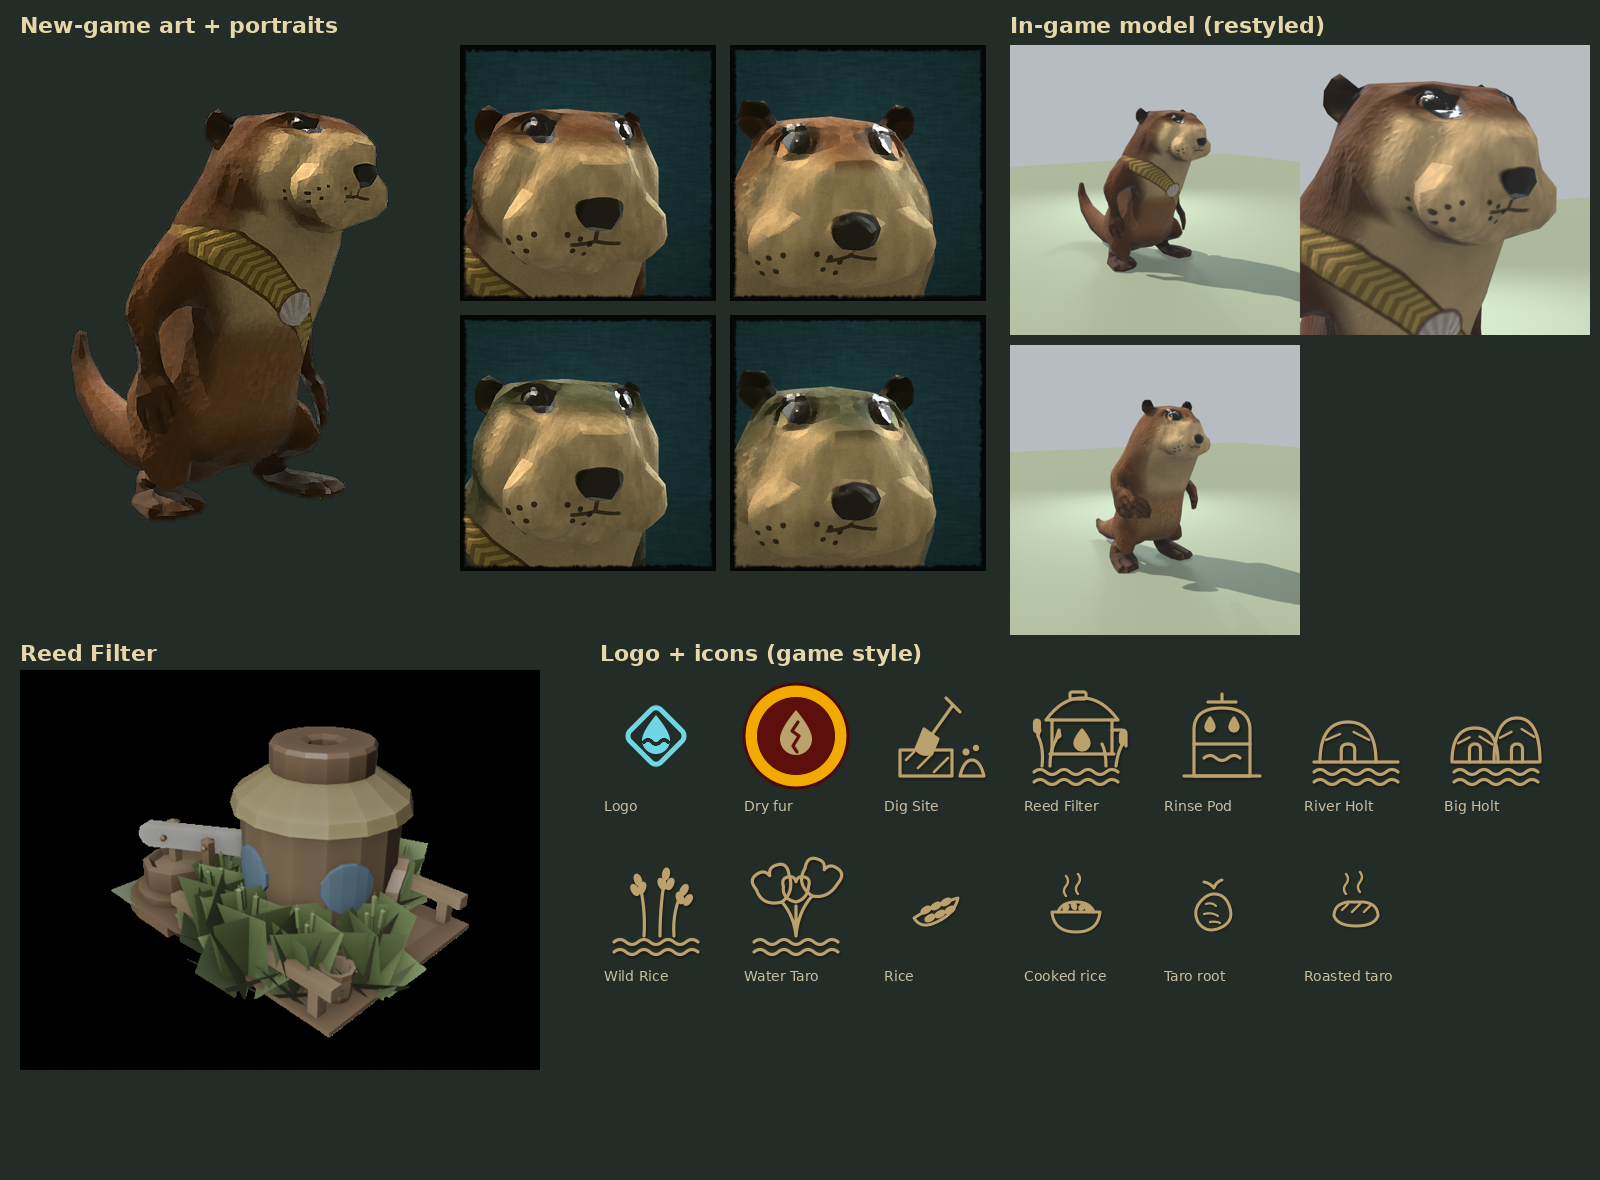
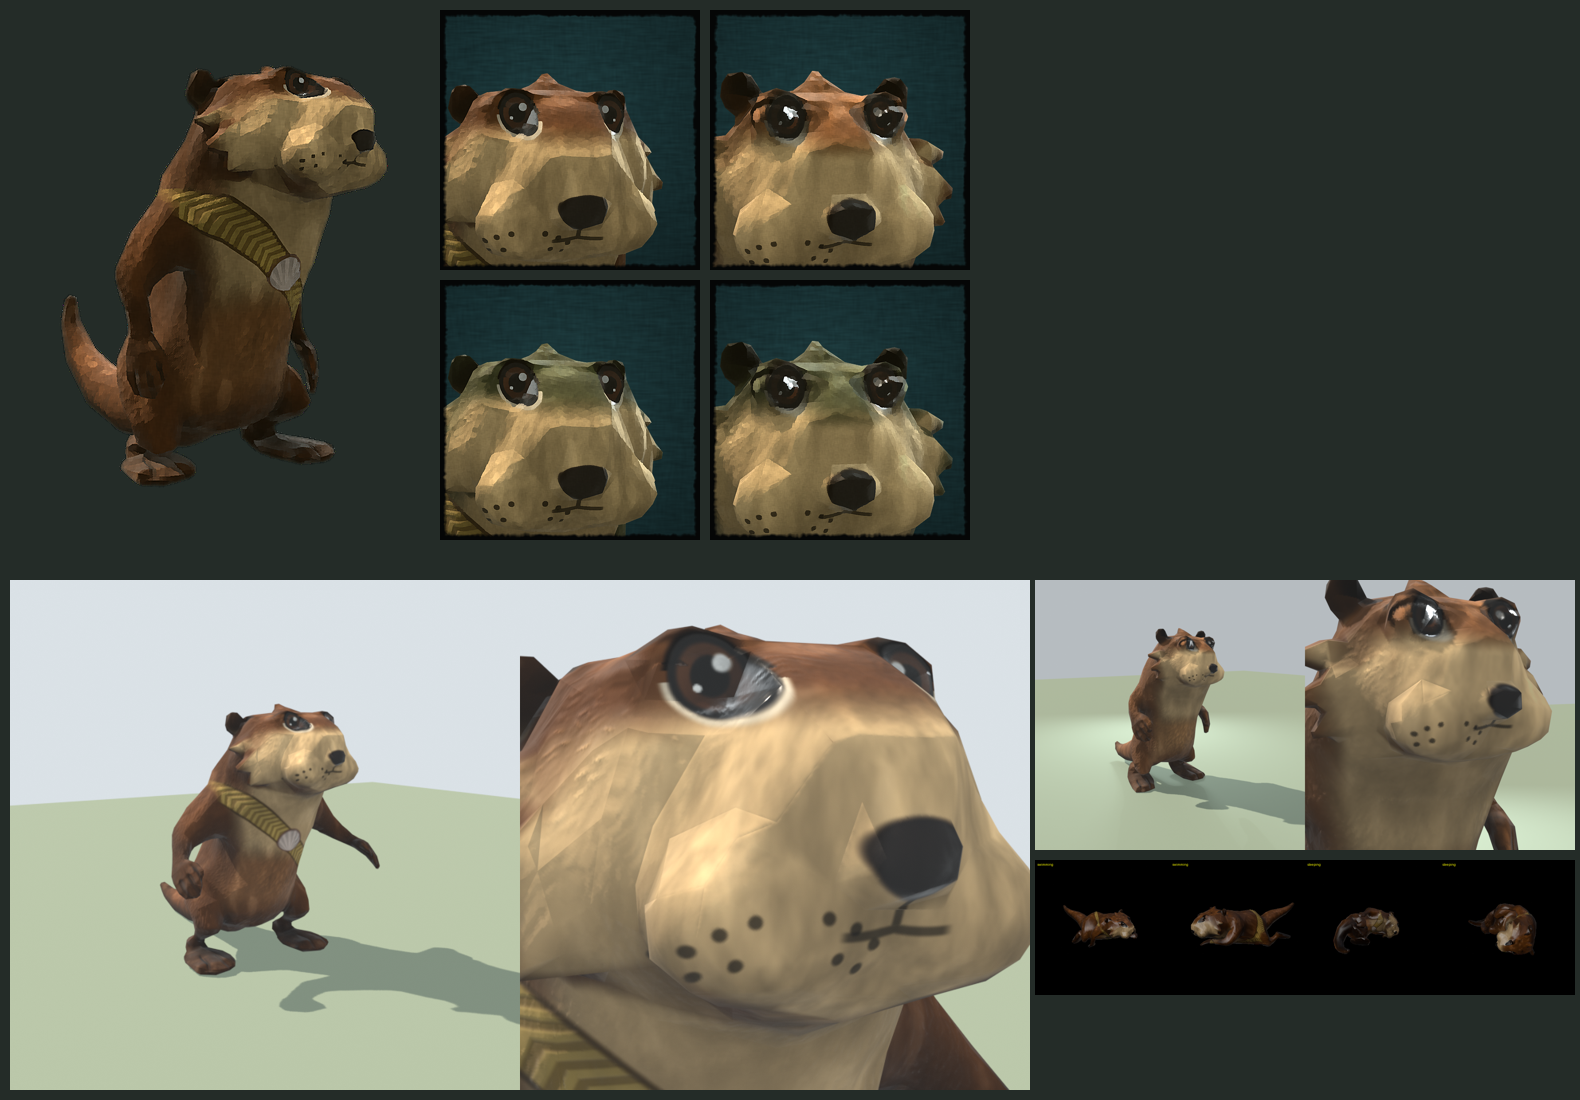
More stylized otters: bigger head, cartoon eyes, cheek ruffs, painted fur clumps
Claude-Session: https://claude.ai/code/session_01XRxHSVGEuDFb3HZy6CznfD

diff --git a/model/paint.py b/model/paint.py
@@ -246,22 +246,33 @@ def paint(P, N, M, A, L, back, belly, R, detail):
             w = smoothstep(0.003 * s, 0.0015 * s, dd) * smoothstep(0.2, 0.5, nz)
             col = col * (1 - 0.6 * w[..., None])
 
-    # eyes: dark glossy with a catch-light and a darker brow above
+    # eyes, cartoon style: dark brown iris with a lighter ring, black pupil, a cream rim along the lower edge,
+    # a heavy upper lid line, two catch-lights and a furry brow tuft
     for sgn in (-1, 1):
         c = np.array(L["eye"]) * [sgn, 1, 1]
-        front_face = smoothstep(0.0, 0.35, nz) * (np.abs(z - c[2]) < 0.05 * s)
-        d2 = np.linalg.norm((P - c)[..., :2] / [1.0, 1.15], axis=-1)
-        brow_c = c + [sgn * 0.002 * s, 0.006 * s, 0]
-        bd = np.linalg.norm((P - brow_c)[..., :2] / [1.0, 0.7], axis=-1)
-        brow = smoothstep(L["eye_r"] * 2.0, L["eye_r"] * 1.4, bd) * (P[..., 1] > c[1] + 0.3 * L["eye_r"]) * front_face
-        col = col * (1 - 0.35 * brow[..., None])
-        eye = smoothstep(L["eye_r"] * 1.05, L["eye_r"] * 0.85, d2) * front_face
-        col = lerp(col, np.array([0.05, 0.035, 0.03]), eye)
-        iris = smoothstep(L["eye_r"] * 0.75, L["eye_r"] * 0.55, d2) * front_face
-        col = lerp(col, np.array([0.16, 0.09, 0.05]), iris * 0.6)
-        glint_c = c + [sgn * 0.004 * s, 0.005 * s, 0]
-        glint = smoothstep(L["eye_r"] * 0.38, L["eye_r"] * 0.22, np.linalg.norm((P - glint_c)[..., :2], axis=-1)) * front_face
-        col = lerp(col, np.array([0.97, 0.97, 0.95]), glint)
+        er = L["eye_r"]
+        front_face = smoothstep(-0.1, 0.3, nz) * (np.abs(z - c[2]) < 0.06 * s)
+        rel2 = (P - c)[..., :2] / [1.0, 1.12]
+        d2 = np.linalg.norm(rel2, axis=-1)
+        # brow tuft: a darker swoosh above and slightly outward
+        bc = c + [sgn * 0.004 * s, er * 1.35, 0]
+        bd = np.linalg.norm((P - bc)[..., :2] / [1.25, 0.55], axis=-1)
+        brow = smoothstep(er * 1.25, er * 0.7, bd) * front_face
+        col = col * (1 - 0.45 * brow[..., None])
+        rim = smoothstep(er * 1.22, er * 1.05, d2) * (rel2[..., 1] < -0.15 * er) * front_face
+        col = lerp(col, np.array([0.93, 0.88, 0.78]), rim * 0.85)
+        eye = smoothstep(er * 1.04, er * 0.9, d2) * front_face
+        col = lerp(col, np.array([0.03, 0.02, 0.02]), eye)
+        iris = smoothstep(er * 0.86, er * 0.7, d2) * front_face
+        col = lerp(col, np.array([0.30, 0.17, 0.08]), iris)
+        pupil = smoothstep(er * 0.52, er * 0.4, d2) * front_face
+        col = lerp(col, np.array([0.02, 0.015, 0.01]), pupil)
+        lid = smoothstep(er * 0.16, er * 0.0, np.abs(d2 - er * 1.0)) * (rel2[..., 1] > 0.1 * er) * front_face
+        col = lerp(col, np.array([0.05, 0.03, 0.02]), lid)
+        for (gx, gy, gr) in ((-0.32, 0.34, 0.3), (0.3, -0.3, 0.13)):
+            gc = c + [sgn * gx * er, gy * er, 0]
+            glint = smoothstep(er * gr, er * gr * 0.55, np.linalg.norm((P - gc)[..., :2], axis=-1)) * front_face
+            col = lerp(col, np.array([0.98, 0.98, 0.96]), glint)
 
     # fur detail: the game's painted strands where they fit, procedural strokes elsewhere
     proc = R["procedural"]
@@ -276,9 +287,14 @@ def paint(P, N, M, A, L, back, belly, R, detail):
     col = lerp(col, shell, R["shell"])
     col = lerp(col, np.array([0.45, 0.3, 0.25]), R["shell_rim"] * 0.8)
 
-    col = col * (0.72 + 0.28 * A[..., None])
-    # painted top light: heads and shoulders lighter, undersides darker
-    col = col * (0.86 + 0.2 * np.clip(ny, -1, 1)[..., None])
+    # painted fur clumps: soft vertical streaks with lighter tips, like hand-painted strokes
+    clump = np.zeros(M.shape); clump[M] = fbm(flat * [1.0, 0.28, 1.0], 55.0, 21, 3)
+    tips = smoothstep(0.55, 0.75, clump) * (1 - R["sash"]) * (1 - R["shell"])
+    col = col * (0.82 + 0.36 * clump[..., None])
+    col = col + 0.07 * tips[..., None] * (1 - cream_w[..., None] * 0.5)
+    col = col * (0.62 + 0.38 * A[..., None])
+    # painted light: tops and faces lighter, undersides and backs darker
+    col = col * (0.8 + 0.3 * np.clip(ny, -1, 1)[..., None] + 0.06 * np.clip(nz, 0, 1)[..., None])
     return np.clip(col, 0, 1), dict(nose=nose_w, eyes=None)
 
 

diff --git a/model/otter_shape.py b/model/otter_shape.py
@@ -163,7 +163,31 @@ def otter_sdf(P, beaver_grid, lo, params):
     c, r = F["foot"]
     for sgn in (-1, 1):
         d = smin(d, ellipsoid(P, (sgn * c[0], c[1], c[2]), r), 0.012)
+
+    # --- stylization: eye bulges so the eyes pop, and fur tufts breaking the silhouette
+    if F.get("eye_bulge"):
+        c, r = F["eye_bulge"]
+        for sgn in (-1, 1):
+            d = smin(d, sphere(P, (sgn * c[0], c[1], c[2]), r), 0.008)
+    for base, tip, rb, mirror in F.get("tufts", []):
+        for sgn in ((-1, 1) if mirror else (1,)):
+            b = (sgn * base[0], base[1], base[2])
+            t = (sgn * tip[0], tip[1], tip[2])
+            # soft, short tufts: pull the tip in and keep it rounded
+            t = tuple(bb + (tt - bb) * 0.62 for bb, tt in zip(b, t))
+            d = smin(d, capsule_chain(P, [b, t], [rb, rb * 0.38]), rb * 0.85)
     return d
+
+
+def stylized_sdf(P, beaver_grid, lo, params):
+    """Head scaled up around its centre (cartoon proportions); everything below the neck unchanged."""
+    hs = params["features"].get("head_scale")
+    if not hs:
+        return otter_sdf(P, beaver_grid, lo, params)
+    c, k, y0, y1 = hs
+    s = 1 + (k - 1) * smoothstep(y0, y1, P[..., 1])
+    Q = np.asarray(c) + (P - np.asarray(c)) / s[..., None]
+    return otter_sdf(Q, beaver_grid, lo, params) * s
 
 
 ADULT_FEATURES = dict(
@@ -177,6 +201,15 @@ ADULT_FEATURES = dict(
     chin=((0, 0.395, 0.16), (0.04, 0.022, 0.035)),
     ear=((0.083, 0.495, 0.035), (0.016, 0.02, 0.012)),
     foot=((0.118, 0.012, -0.03), (0.05, 0.012, 0.07)),
+    head_scale=((0.0, 0.45, 0.09), 1.09, 0.36, 0.42),
+    eye_bulge=((0.039, 0.496, 0.133), 0.019),
+    # (base, tip, base radius, mirrored)
+    tufts=[
+        ((0.084, 0.432, 0.112), (0.128, 0.414, 0.098), 0.018, True),    # cheek ruff
+        ((0.078, 0.408, 0.122), (0.117, 0.386, 0.112), 0.016, True),
+        ((0.088, 0.455, 0.088), (0.124, 0.452, 0.07), 0.015, True),
+        ((0.0, 0.505, 0.07), (0.0, 0.535, 0.035), 0.018, False),        # one soft crown swoosh
+    ],
 )
 
 ADULT_PARAMS = dict(slim=0.09, belly=0.10, head_widen=0.05, erode=0.0015, features=ADULT_FEATURES)
@@ -195,7 +228,7 @@ def build(pos, tris, params=ADULT_PARAMS):
     ys = lo[1] + (np.arange(shape[1]) + 0.5) * VOXEL
     zs = lo[2] + (np.arange(shape[2]) + 0.5) * VOXEL
     P = np.stack(np.meshgrid(xs, ys, zs, indexing="ij"), axis=-1)
-    d = otter_sdf(P, bgrid, lo, params)
+    d = stylized_sdf(P, bgrid, lo, params)
     # flat floor: nothing below y = 0
     d = np.maximum(d, -(P[..., 1] - 0.0005))
     verts, faces, _, _ = measure.marching_cubes(d, 0.0, spacing=(VOXEL,) * 3)
@@ -245,5 +278,11 @@ CHILD_FEATURES = dict(
     chin=_hfeat(A["chin"], True),
     ear=((0.048, 0.305, 0.03), (0.011, 0.013, 0.008)),
     foot=((0.066, 0.008, -0.025), (0.03, 0.008, 0.042)),
+)
+CHILD_FEATURES.update(
+    head_scale=(_hfeat(((0.0, 0.45, 0.09), (1, 1, 1)), True)[0], 1.07, 0.2, 0.245),
+    eye_bulge=(_hfeat((A["eye_bulge"][0], (1, 1, 1)))[0], 0.0125),
+    tufts=[(_hfeat((b, (1, 1, 1)))[0] if b[1] > 0.3 else _body(b), _hfeat((t, (1, 1, 1)))[0] if b[1] > 0.3 else _body(t),
+            r * 0.62, m) for b, t, r, m in A["tufts"]],
 )
 CHILD_PARAMS = dict(slim=0.07, belly=0.08, head_widen=0.04, erode=0.001, features=CHILD_FEATURES)

diff --git a/model/hero_full.py b/model/hero_full.py
@@ -1,0 +1,19 @@
+"""Rest-pose renders with all maps. usage: hero_full.py mesh.npz tex.png prefix out.png [scale]"""
+import sys; sys.path.insert(0,'.')
+import bpy, numpy as np, blend_util as bu, tempfile
+from mathutils import Vector
+from PIL import Image
+npz, tex, prefix, out = sys.argv[1:5]; s=float(sys.argv[5]) if len(sys.argv)>5 else 1.0
+o=np.load(npz); bu.reset_scene()
+ob=bu.mesh_from_unity('O',o['pos'],o['tris'],uvs={'uv0':o['uv0']})
+ob.data.materials.append(bu.full_material('m',tex,'uv0',ao=prefix+'AO.png',gloss=prefix+'Gloss.png',normal_ts=prefix+'NormalTS_blender_preview.png'))
+bpy.ops.mesh.primitive_plane_add(size=6); bpy.context.active_object.data.materials.append(bu.color_material('g',(0.30,0.36,0.26),0.95))
+bu.setup_render((640,640))
+sun=[x for x in bpy.data.lights if x.type=='SUN'][0]; sun.energy=3.8; sun.color=(1.0,0.9,0.76)
+views=[((0.7*s,1.1*s,0.5*s),(0,0,0.27*s),45),((0.16*s,0.5*s,0.47*s),(0,0.12*s,0.44*s),70),((-0.75*s,-0.95*s,0.6*s),(0,-0.05*s,0.25*s),45),((1.25*s,0.05,0.35*s),(0,-0.1*s,0.26*s),45)]
+paths=[]
+for i,(loc,tgt,lens) in enumerate(views):
+    cam=bu.camera(f'c{i}',loc,tgt,lens=lens); p=f'{tempfile.gettempdir()}/_hf{i}.png'; bu.render(cam,p); paths.append(p)
+W=Image.new('RGB',(1280,1280))
+for i,p in enumerate(paths): W.paste(Image.open(p).convert('RGB'),((i%2)*640,(i//2)*640))
+W.save(out)

diff --git a/model/landmarks.py b/model/landmarks.py
@@ -6,3 +6,21 @@ CHILD = dict(scale=0.62, head_y=0.262, muzzle_z=0.088, bib_low=0.13, hand_x=0.11
              ear=(0.048,0.305,0.03), nose=(0.0,0.2645,0.128), whisker=(0.0238,0.2505,0.1135),
              eye=(0.024,0.299,0.087), eye_r=0.0076,
              tail_start_z=-0.105, muzzle_c=(0.0,0.255,0.115), sash=None, clasp_x=0.0)
+
+
+def _scaled(L, c, k):
+    """Move head landmarks to match the enlarged head (scaled by k around c)."""
+    import numpy as np
+    out = dict(L)
+    c = np.asarray(c)
+    for key in ("ear", "nose", "whisker", "eye", "muzzle_c"):
+        out[key] = tuple(c + (np.asarray(L[key]) - c) * k)
+    out["head_y"] = float(c[1] + (L["head_y"] - c[1]) * k)
+    out["muzzle_z"] = float(c[2] + (L["muzzle_z"] - c[2]) * k)
+    out["eye_r"] = L["eye_r"] * k * 1.18   # bigger, more expressive eyes
+    return out
+
+
+import otter_shape as _os
+ADULT = _scaled(ADULT, *_os.ADULT_FEATURES["head_scale"][:2])
+CHILD = _scaled(CHILD, *_os.CHILD_FEATURES["head_scale"][:2])

diff --git a/model/build_models.py b/model/build_models.py
@@ -42,8 +42,8 @@ import beaver_data as bd
 import bake_detail as bk
 
 CONFIG = [  # which, beaver, target tris, texture size, binding sigma, beaver normal, beaver AO, beaver albedo
-    ("adult", "BeaverAdult", 2300, 2048, 0.03, "Adult_Normal_2K.png", "Adult_AO_2K.png", "BeaverAdult1.Folktails.png"),
-    ("child", "BeaverChild", 1900, 1024, 0.02, "Chilkd_Normal_1K.png", "Child_AO_1K.png", "BeaverChild1.Folktails.png"),
+    ("adult", "BeaverAdult", 2800, 2048, 0.03, "Adult_Normal_2K.png", "Adult_AO_2K.png", "BeaverAdult1.Folktails.png"),
+    ("child", "BeaverChild", 2200, 1024, 0.02, "Chilkd_Normal_1K.png", "Child_AO_1K.png", "BeaverChild1.Folktails.png"),
 ]
 for which, beaver, tris, size, sigma, bn, bao, balb in CONFIG:
     raw = f"{TMP}/otter_{which}_raw.npz"
